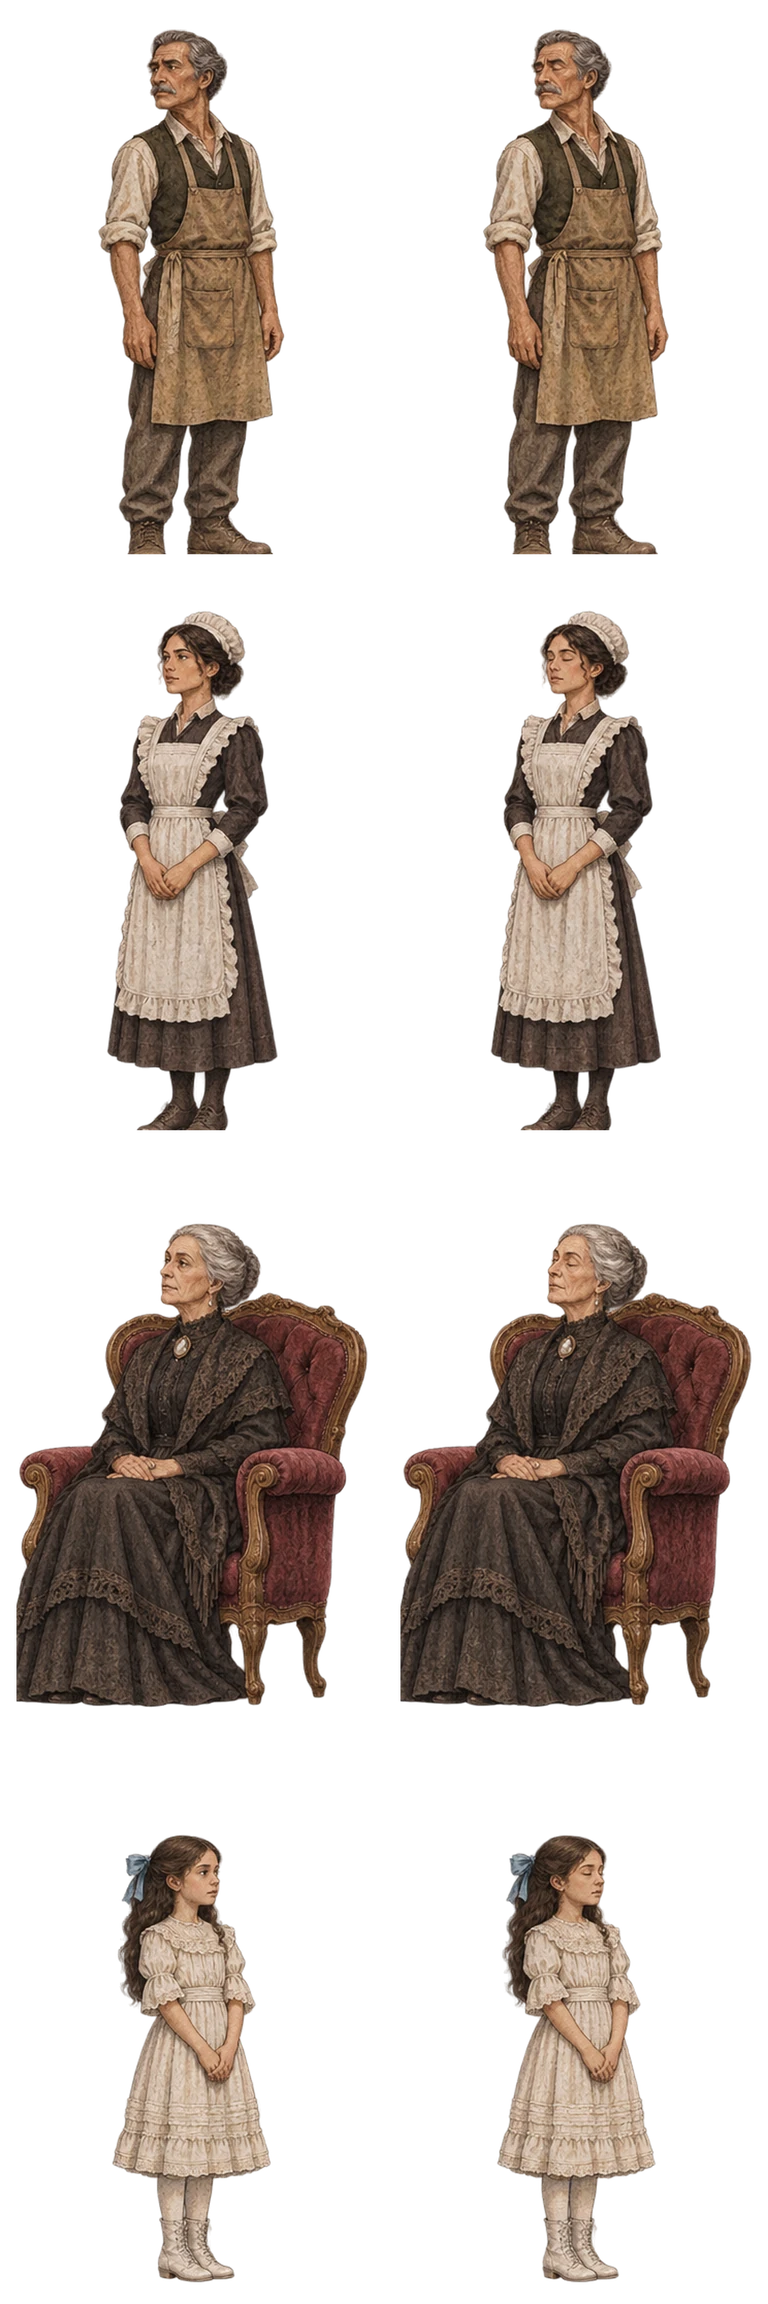
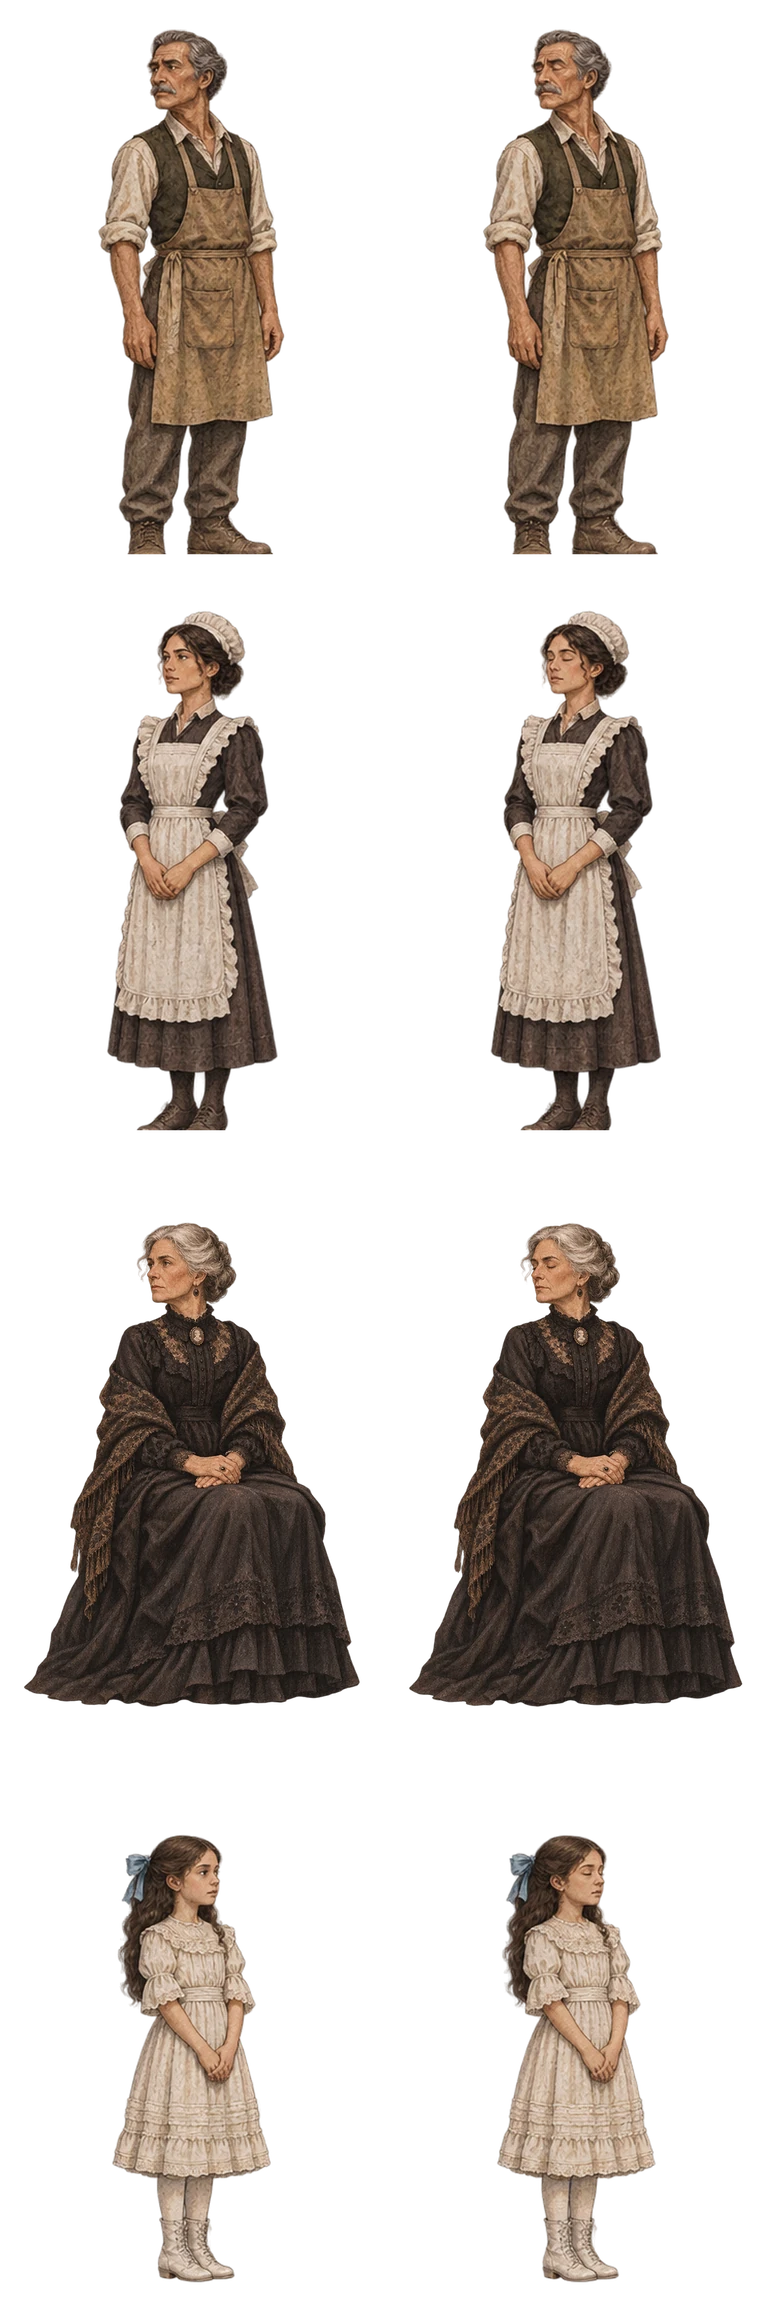
Doña Mercedes sentada en el sillón pintado del salón
Claude-Session: https://claude.ai/code/session_01M12J5Dq2ffQCMYsL54s8rZ

Changed region(s): [[0.5, 0.5312, 1.0, 0.75], [0.0, 0.5312, 0.5, 0.75]]

diff --git a/src/data/rooms.ts b/src/data/rooms.ts
@@ -320,7 +320,7 @@ export const ROOMS: Record<string, RoomDef> = {
     spawn: [1480, 660],
     hotspots: [
       {
-        id: 'mercedes', name: 'Doña Mercedes', rect: [120, 380, 190, 270], walk: [420, 680], face: 'left', npc: 'mercedes',
+        id: 'mercedes', name: 'Doña Mercedes', rect: [90, 370, 190, 270], walk: [420, 680], face: 'left', npc: 'mercedes',
         look: [say('Una mujer pequeña, de luto antiguo, sentada muy derecha. Tiene el pelo blanco y las manos ocupadas en nada.')],
         talk: [{ t: 'dialog', id: 'mercedes' }],
       },

diff --git a/tools/npc-atlas.py b/tools/npc-atlas.py
@@ -10,7 +10,9 @@ FW, FH = 384, 576
 sheet = Image.new('RGBA', (FW * 2, FH * len(IDS)), (0, 0, 0, 0))
 for r, n in enumerate(IDS):
     for c in range(2):
-        im = Image.open(os.path.join(src, '%s-quieta-%d.png' % (n, c + 1))).convert('RGBA')
+        f = os.path.join(src, '%s-sentada-%d.png' % (n, c + 1))
+        if not os.path.exists(f): f = os.path.join(src, '%s-quieta-%d.png' % (n, c + 1))
+        im = Image.open(f).convert('RGBA')
         a = np.array(im)
         a[:, :, 3] = np.where(a[:, :, 3] < 10, 0, a[:, :, 3])
         bot = int(np.where((a[:, :, 3] > 128).sum(1) > 3)[0][-1])

diff --git a/PROGRESS.md b/PROGRESS.md
@@ -27,7 +27,7 @@ Ale eligió la fachada en abandono pintada como referencia de todo el juego. Los
 
 ## Siguiente
 - Las 11 salas ya usan láminas pintadas en todas sus épocas. Falta el portón abierto.
-- Mercedes sentada sin sillón (el salón ya tiene uno pintado): pedido al hilo de arte.
+
 
 - Integrar ilustraciones pintadas (manifiesto de capas PNG) unificadas con el mismo tratamiento de papel y paleta.
 - Mejorar el dibujo de Elena y hoja de personaje maestra.
